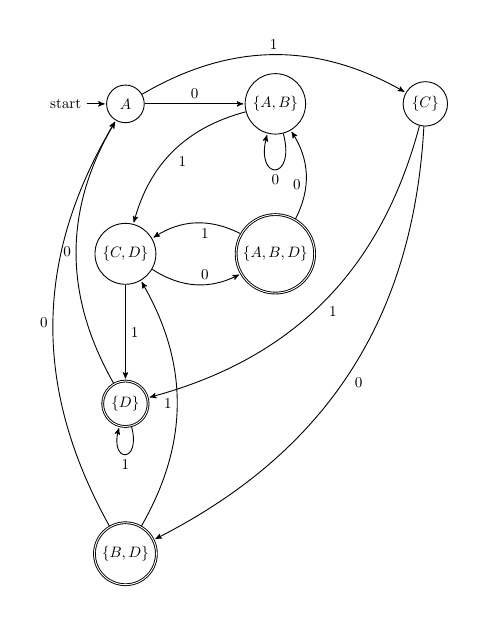
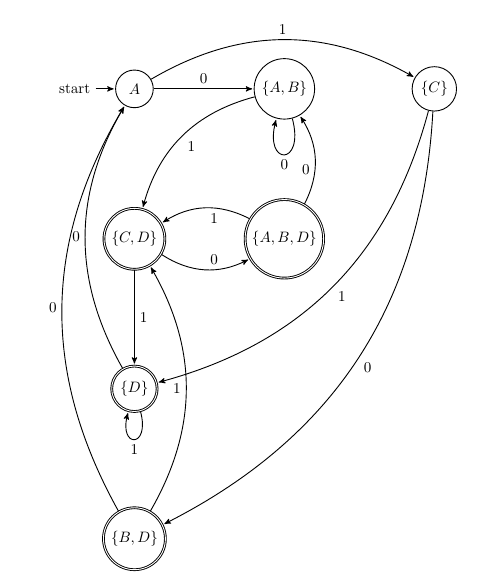
whoops, forgot to put correct dfa version -- fixed.

diff --git a/01 - Finite Automata/images/tex_src/q4_dfa/q4_dfa.tex b/01 - Finite Automata/images/tex_src/q4_dfa/q4_dfa.tex
@@ -13,7 +13,7 @@
 	\node[state]                        (B) [right of=A] {$\{A,B\}$};
 	\node[state]                        (C) [right of=B] {$\{C\}$};
 	\node[state,accepting]        (D) [below of=B] {$\{A,B, D\}$};
-	\node[state]						(E) [below of=A] {$\{C, D\}$};
+	\node[state,accepting]  	  (E) [below of=A] {$\{C, D\}$};
 	\node[state,accepting]    	  (G) [below of=E] {$\{D\}$};
 	\node[state,accepting]		  (F) [below of=G] {$\{B, D\}$};
 		
